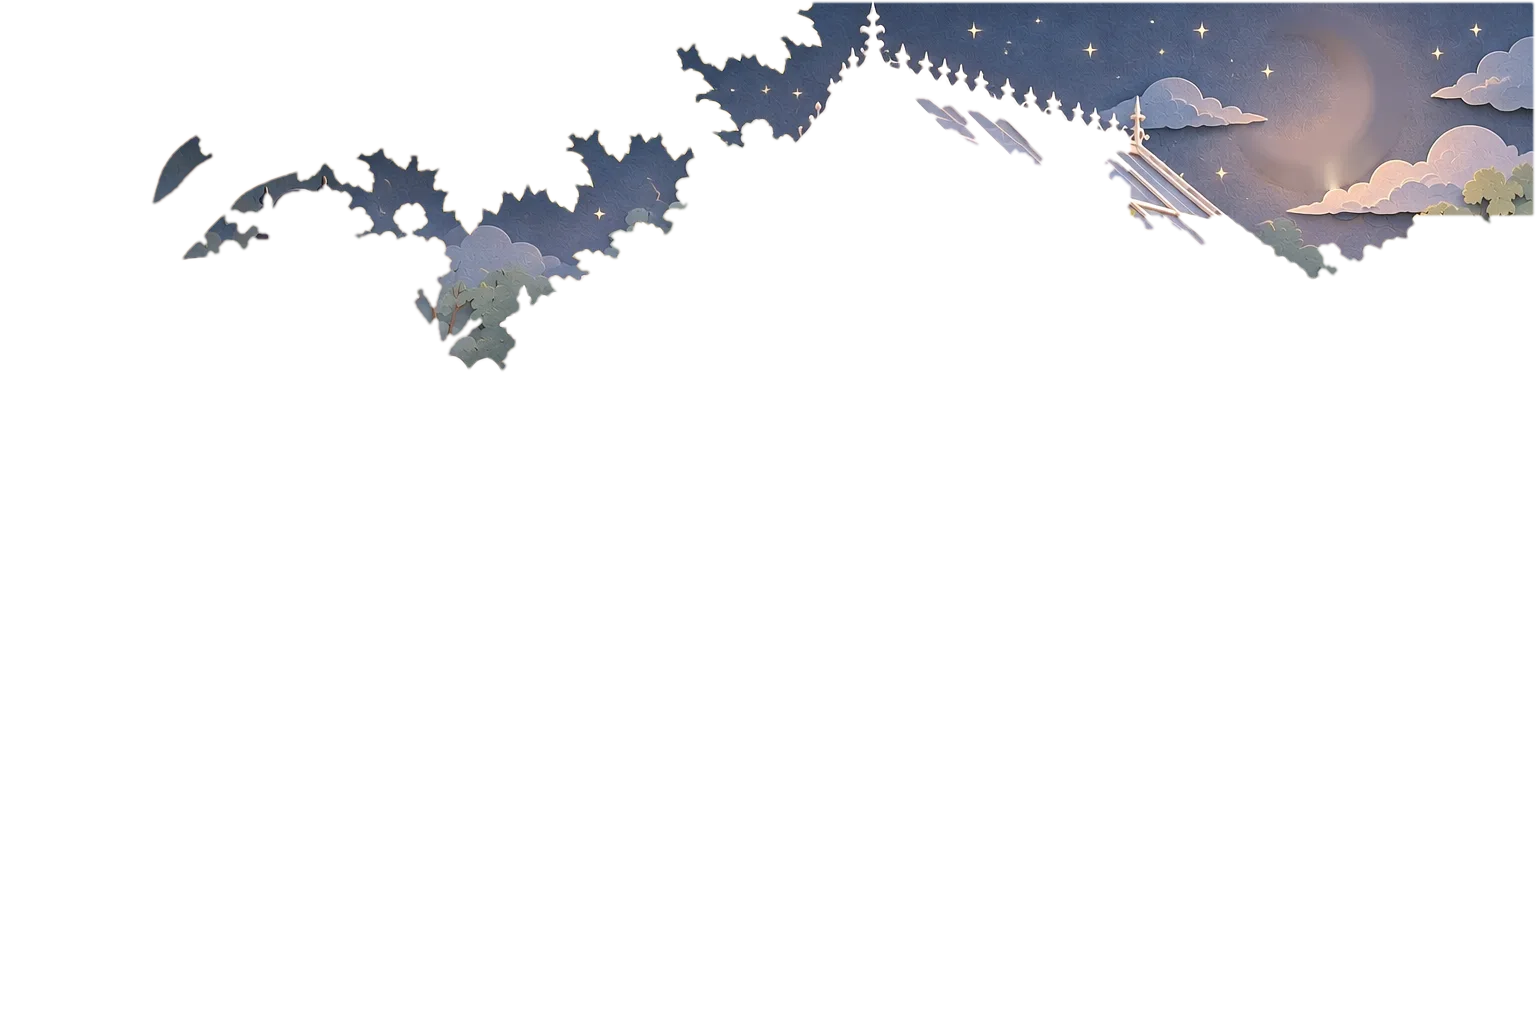
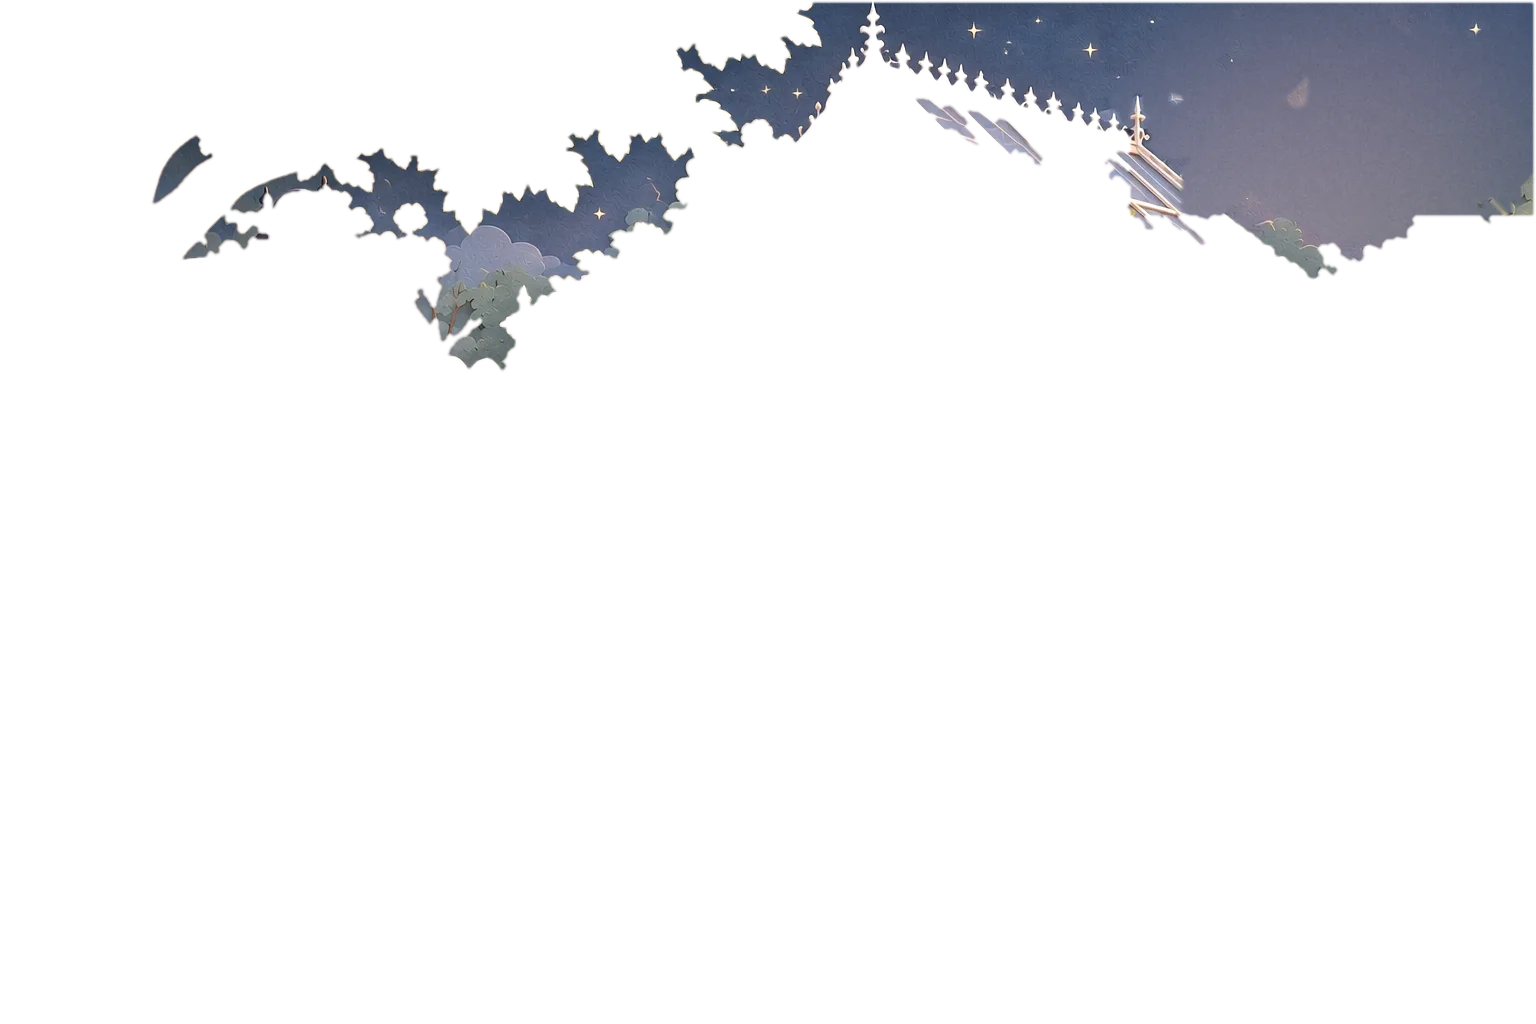
花園天空的雲拆成獨立圖層，白天與夜晚的雲都會緩緩左右飄動
Claude-Session: https://claude.ai/code/session_015p85XBWVqjkFtHRQgipjj8

Changed region(s): [[0.7188, 0.0, 1.0, 0.2188]]

diff --git a/src/GardenScene.tsx b/src/GardenScene.tsx
@@ -3,6 +3,7 @@ import type { useStore } from './store'
 import { collection, dayFlower, flowerOf, flowerSrc, STAGES, stageOf, type Flower } from './garden'
 import { fmtDate, todayISO } from './util'
 import layout from '../public/garden/spots.json'
+import cloudData from '../public/garden/clouds.json'
 
 type Store = ReturnType<typeof useStore>
 
@@ -134,7 +135,17 @@ export default function GardenScene({ store }: { store: Store }) {
       <div className="scene-scroll" ref={scroller} onScroll={() => { if (ready.current && hint) setHint(false) }}>
         <div className={'scene' + (night ? ' night' : '')} role="img" aria-label={`我的花園，${phaseName(m)}，種了 ${planted.length} 叢花`}>
           <img className="scene-bg" src="garden/backdrop.webp" alt="" draggable={false} />
+          {/* 白天的雲 */}
+          {cloudData.day.map((c, i) => (
+            <img key={c.src} className="cloud" src={`garden/${c.src}`} alt="" draggable={false}
+              style={{ left: px(c.x), top: py(c.y), width: px(c.w), height: py(c.h), opacity: 1 - light.stars, animationDuration: `${46 + i * 9}s`, animationDelay: `${-i * 13}s` }} />
+          ))}
           {light.stars > 0 && <img className="scene-bg night-sky" src="garden/night-sky.webp" alt="" draggable={false} style={{ opacity: light.stars }} />}
+          {/* 夜晚的雲 */}
+          {light.stars > 0 && cloudData.night.map((c, i) => (
+            <img key={c.src} className="cloud night" src={`garden/${c.src}`} alt="" draggable={false}
+              style={{ left: px(c.x), top: py(c.y), width: px(c.w), height: py(c.h), opacity: light.stars, animationDuration: `${38 + (i % 3) * 11}s`, animationDelay: `${-i * 7}s` }} />
+          ))}
           {/* 大樹的樹冠分成 4 叢，各自隨風擺動 */}
           {[0, 1, 2, 3].map((k) => (
             <img key={k} className={`scene-tree t${k}`} src={`garden/tree-${k}.webp`} alt="" draggable={false} style={{ left: 0, top: 0, width: px(860), height: py(360) }} />

diff --git a/src/style.css b/src/style.css
@@ -740,3 +740,10 @@ body:has(.garden-app) { background: var(--gp-bg); }
   background: radial-gradient(closest-side, rgba(70, 45, 25, .32), rgba(70, 45, 25, .12) 60%, transparent); }
 .scene-wrap .today-tag { font-size: 9px; padding: 0 6px; opacity: .85; }
 @media (prefers-reduced-motion: reduce) { .scene-wrap .plant img { animation: none; transform: rotate(var(--r, 0deg)); } }
+
+/* 雲緩緩左右飄 */
+.scene .cloud { position: absolute; max-width: none; pointer-events: none; z-index: 3; animation: cloudDrift 46s ease-in-out infinite alternate;
+  filter: drop-shadow(0 4px 3px rgba(150, 110, 95, .22)); transition: opacity 3s; }
+.scene .cloud.night { filter: drop-shadow(0 4px 4px rgba(25, 25, 55, .35)); }
+@keyframes cloudDrift { from { transform: translateX(-2.6%); } to { transform: translateX(2.6%); } }
+@media (prefers-reduced-motion: reduce) { .scene .cloud { animation: none; } }

diff --git a/scripts/clouds.py b/scripts/clouds.py
@@ -1,0 +1,116 @@
+"""把天空的雲拆成獨立圖層（白天、夜晚各一組），雲後面補成天空，雲才能在 App 裡緩緩移動。
+用法：python3 scripts/clouds.py <夜晚插畫.png> <garden 資料夾>"""
+import sys, json
+import numpy as np, cv2
+from PIL import Image
+from scipy import ndimage
+from rembg import new_session, remove
+night_src, out = sys.argv[1], sys.argv[2].rstrip('/') + '/'
+sess = new_session('isnet-general-use')
+
+def ai_alpha(img, box):
+    c = Image.fromarray(img[..., :3]).crop(box)
+    big = c.resize((c.width * 3, c.height * 3), Image.LANCZOS)
+    return np.array(remove(big, session=sess).resize(c.size, Image.LANCZOS))[..., 3] / 255
+
+def clean(m, minsize):
+    m = ndimage.binary_closing(m, iterations=2)
+    m = ndimage.binary_fill_holes(m)
+    m = ndimage.binary_opening(m, iterations=2)
+    lab, n = ndimage.label(m)
+    if not n: return m
+    sz = ndimage.sum(m, lab, range(1, n + 1))
+    return np.isin(lab, [i + 1 for i, v in enumerate(sz) if v > minsize])
+
+def pieces(img, mask, tag):
+    H, W = mask.shape
+    alpha = np.clip(ndimage.gaussian_filter(mask.astype(float), 0.8) * 1.4, 0, 1)
+    lab, n = ndimage.label(ndimage.binary_dilation(mask, iterations=1))
+    res = []
+    for i, sl in enumerate(ndimage.find_objects(lab)):
+        y0, y1, x0, x1 = max(0, sl[0].start - 3), min(H, sl[0].stop + 3), max(0, sl[1].start - 3), min(W, sl[1].stop + 3)
+        part = img[y0:y1, x0:x1].copy()
+        part[..., 3] = (alpha[y0:y1, x0:x1] * ndimage.binary_dilation(lab[y0:y1, x0:x1] == i + 1, iterations=2) * 255).astype(np.uint8)
+        name = f'cloud-{tag}-{i}.webp'
+        Image.fromarray(part, 'RGBA').save(out + name, quality=88, method=4)
+        res.append({'src': name, 'x': int(x0), 'y': int(y0), 'w': int(x1 - x0), 'h': int(y1 - y0)})
+    return res
+
+def fill(img, hole, avoid):
+    """每一塊補色區：用外圍一圈天空的顏色擬合平滑漸層（二次曲面）補上，再加細紙紋"""
+    base = img[..., :3].astype(float)
+    lab, n = ndimage.label(hole)
+    rng = np.random.default_rng(3)
+    for i, sl in enumerate(ndimage.find_objects(lab)):
+        reg = lab == i + 1
+        ring = ndimage.binary_dilation(reg, iterations=22) & ~ndimage.binary_dilation(reg, iterations=3) & ~avoid
+        y0, y1 = max(0, sl[0].start - 30), min(base.shape[0], sl[0].stop + 30)
+        x0, x1 = max(0, sl[1].start - 30), min(base.shape[1], sl[1].stop + 30)
+        yy, xx = np.mgrid[y0:y1, x0:x1].astype(float)
+        X = np.stack([np.ones_like(xx), xx, yy, xx * xx, yy * yy, xx * yy], -1) / [1, 1e3, 1e3, 1e6, 1e6, 1e6]
+        rr = ring[y0:y1, x0:x1]
+        sub = base[y0:y1, x0:x1]
+        grain_std = min(2.5, (sub - ndimage.gaussian_filter(sub, (2, 2, 0)))[rr].std())
+        grain = ndimage.gaussian_filter(rng.normal(0, 1, rr.shape), 0.6)
+        grain = grain / (grain.std() + 1e-6) * grain_std
+        for c in range(3):
+            coef, *_ = np.linalg.lstsq(X[rr], sub[..., c][rr], rcond=None)
+            f = X @ coef + grain
+            w = ndimage.gaussian_filter(reg[y0:y1, x0:x1].astype(float), 1.5)
+            sub[..., c] = sub[..., c] * (1 - w) + f * w
+        base[y0:y1, x0:x1] = sub
+    img[..., :3] = np.clip(base, 0, 255).astype(np.uint8)
+
+def colors(a):
+    r, g, b = a[..., 0].astype(float), a[..., 1].astype(float), a[..., 2].astype(float)
+    return r, g, b, (r + g + b) / 3
+
+# ---------- 白天：右上方那一團雲 ----------
+img = np.array(Image.open(out + 'backdrop.webp').convert('RGBA'))
+H, W = img.shape[:2]
+r, g, b, lum = colors(img)
+green = (g > r - 6) & (g > b + 8)
+box = (1090, 0, 1530, 125)
+m = np.zeros((H, W), bool)
+m[box[1]:box[3], box[0]:box[2]] = ai_alpha(img, box) > 0.3
+cloud = clean(m & ~ndimage.binary_dilation(green, iterations=3) & (lum > 185), 1500)
+day = pieces(img, cloud, 'd')
+yy, xx = np.mgrid[0:H, 0:W]
+zone = (xx >= 1080) & (yy < 140) & ~ndimage.binary_dilation(green, iterations=4) & (lum > 140)   # 雲連同陰影的整片天空
+zone = ndimage.binary_opening(zone, iterations=2) & ndimage.binary_dilation(cloud, iterations=26)
+fill(img, zone | ndimage.binary_dilation(cloud, iterations=6) & ~green, ndimage.binary_dilation(zone | cloud | green, iterations=3) | (lum < 175))
+Image.fromarray(img[..., :3]).save(out + 'backdrop.webp', quality=82, method=4)
+
+# ---------- 夜晚 ----------
+nimg = np.array(Image.open(night_src).convert('RGBA'))
+r, g, b, lum = colors(nimg)
+yy, xx = np.mgrid[0:H, 0:W]
+moon = ((r + g) / 2 - b > 30) & (lum > 150) & (xx > 1180) & (xx < 1440) & (yy < 200)
+moon = ndimage.binary_dilation(ndimage.binary_fill_holes(moon), iterations=10)
+green = (g > r + 3) & (g > b + 6) & (lum < 200)
+cloud = np.zeros((H, W), bool)
+for box in [(1050, 55, 1300, 150), (1410, 25, 1536, 125)]:
+    cloud[box[1]:box[3], box[0]:box[2]] |= ai_alpha(nimg, box) > 0.35
+# 月亮下方那一大團：比夜空亮、不是黃色的月亮、不是樹
+lower = np.zeros((H, W), bool); lower[105:235, 1270:1536] = True
+navy = (b > r + 4) & (lum < 150)
+cloud |= lower & ~navy & (lum > 150) & ((r + g) / 2 - b < 28) & ~green
+cloud &= ~moon & ~ndimage.binary_dilation(green, iterations=2)
+roof = (lum > 190) & (xx < 1180) & (yy > 95)        # 溫室屋頂的白色裝飾
+cloud = clean(cloud & ~roof, 600)
+# 偏暖色的小塊是月亮光暈，不是雲
+lab, k = ndimage.label(cloud)
+for i in range(1, k + 1):
+    sel = lab == i
+    if sel.sum() < 4000 and r[sel].mean() > b[sel].mean() + 4: cloud[sel] = False
+# 月亮也拆成獨立的（App 另外畫月亮），先把雲和月亮一起補成夜空
+night = pieces(nimg, cloud, 'n')
+zone = (xx >= 1050) & (yy < 245) & ~ndimage.binary_dilation(green | roof, iterations=3)
+zone &= ndimage.binary_dilation(cloud | moon, iterations=30)     # 月亮光暈、雲的陰影一起補成夜空
+fill(nimg, zone, ndimage.binary_dilation(zone | green | roof, iterations=3) | ~navy)
+# 夜空圖層：沿用原本的天空範圍
+alpha = np.array(Image.open(out + 'night-sky.webp').convert('RGBA'))[..., 3]
+nimg[..., 3] = alpha
+Image.fromarray(nimg, 'RGBA').save(out + 'night-sky.webp', quality=82, method=4)
+json.dump({'day': day, 'night': night}, open(out + 'clouds.json', 'w'))
+print(len(day), 'day,', len(night), 'night')
